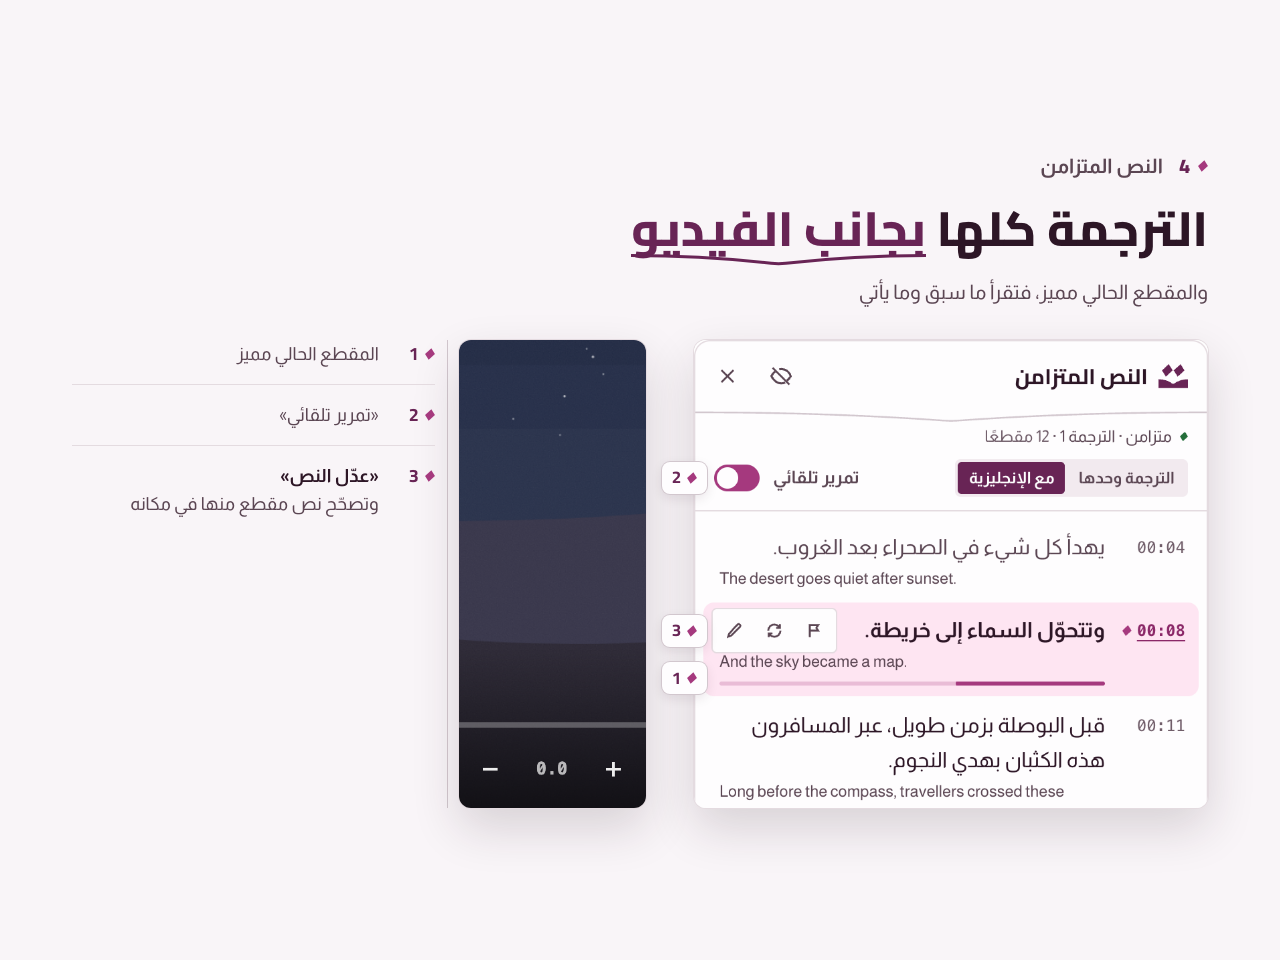
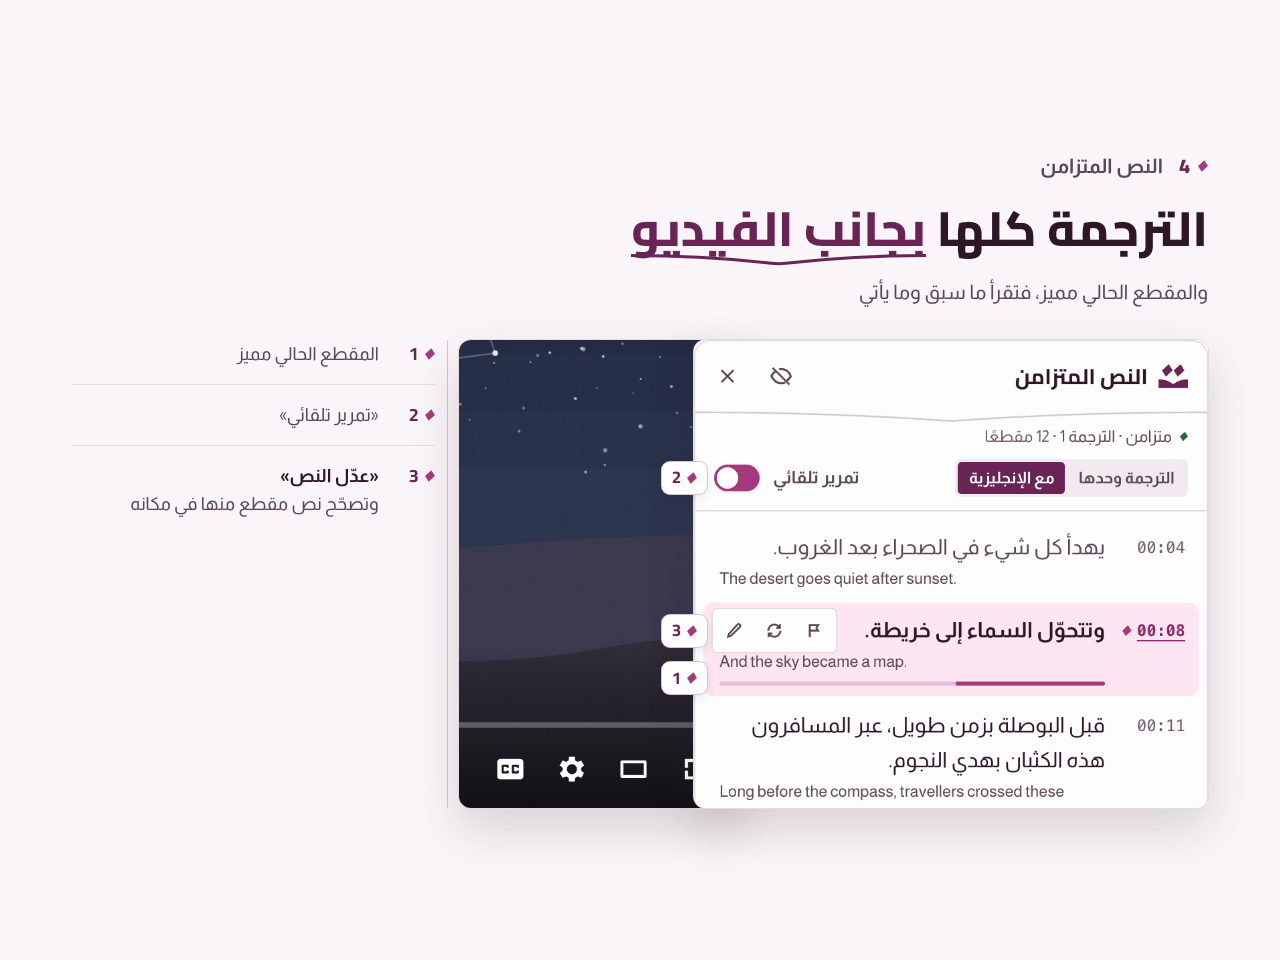
لقطة «النص المتزامن» بتركيب السلسلة المعتمدة نفسه (قرار المنسّق، ت٣-v4-texts-08 وإصلاح dcad6c95): 04-panel بمقاسيها ولغتيها عادت إلى تركيب e8593a55 (المشغّل بالمقاس والموضع نفسيهما واللوحة بجانبه كما كانت)، فالمشغّل المقصوص بجانب اللوحة كان شريطًا ضيقًا لا يُقرأ فيديو. ولم يتغير إلا الخللان المثبتان

Changed region(s): [[0.375, 0.3438, 0.5625, 0.8438]]

diff --git a/docs/development.md b/docs/development.md
@@ -101,7 +101,7 @@ npm run package
 | المقاطع بين `<!-- tj:facts الاسم -->` و`<!-- /tj:facts الاسم -->` في `README.md` و`README.en.md` و`user-guide.md` (التثبيت والمتاجر والأذونات وملخص الخصوصية) | [`facts.json`](facts.json) (ح2) | `node scripts/docs/facts.mjs` (و`--check` في `npm run check`، ومعه مطابقة روابط المتاجر والحدود الدنيا وبريد الدعم في `site/` و`store/` بلا علامات، وبنية النسخ العربية والإنجليزية) |
 | `THIRD_PARTY_NOTICES.txt` | تراخيص الخطوط والأيقونات وأدوات البناء | `npm run notices` |
 | أيقونات الإضافة `src/icons` وأيقونتا المتجر `store/icons` وملفا الرمز `tools/brand/tarjuman-T*.svg` | مسارات الشعار في `src/ui/logo.js`، وأيقونتا 16 و32 المرسومتان بكسلًا في `tools/brand/pixel/` | `node tools/brand/icons.mjs` (و`--check`): ينسخ 16 و32 كما هما، ويولّد ملفي الرمز، ويُبقي البلاطات المرسومة (48 و128 وEdge) ما دامت ضمن حدّ التنعيم من رسمه للهندسة نفسها |
-| صور `.github/assets` ولقطات `store/screenshots/{chromium,firefox}/{ar,en}` و`store/promo` | مجلد العمل المحلي `tarjuman-images/` (غير متتبع) | في `tarjuman-images/_source/3.0.0/`، على نظام واحد (`store-system.ar.md` بجانبها): `capture2.mjs` و`compose3.mjs` للقطات المتجر، و`capture3.mjs` و`compose-readme.mjs` لصور `.github/assets`، و`compose.mjs` للبلاطتين. وإعادة رسم ST4 (اللوحة بجانب الفيديو، وعلامات بلا تراكب) في نسخته `tarjuman-images/_source/3.0.0-st4/`. ثم تُنسخ النتائج إلى مواضعها. ولا رقم إصدار على أي صورة |
+| صور `.github/assets` ولقطات `store/screenshots/{chromium,firefox}/{ar,en}` و`store/promo` | مجلد العمل المحلي `tarjuman-images/` (غير متتبع) | في `tarjuman-images/_source/3.0.0/`، على نظام واحد (`store-system.ar.md` بجانبها): `capture2.mjs` و`compose3.mjs` للقطات المتجر، و`capture3.mjs` و`compose-readme.mjs` لصور `.github/assets`، و`compose.mjs` للبلاطتين. وإعادة رسم ST4 (لوحة النص من الرأس الجديد، وعلامات بلا تراكب) في نسخته `tarjuman-images/_source/3.0.0-st4/`. ثم تُنسخ النتائج إلى مواضعها. ولا رقم إصدار على أي صورة |
 | نصوص صفحات الموقع | [`site`](site/README.md) | مولّد النصوص في مستودع الموقع |
 
 ## الإصدار والمتاجر

diff --git a/store/README.md b/store/README.md
@@ -334,7 +334,7 @@
 - **البلاطتان في `promo/`:** من رسم اللوحة I17 نفسه، بلا نص غير الشعار.
 
 **إعادة الرسم بعد التحقق المستقل (2026-11-14، ST4):** التُقطت الواجهة كلها من جديد من حزمة المتجر لـChromium المبنية من `e8593a55` (بصمة الأرشيف `54d844b1…`) بالطريقة نفسها، وأُعيد رسم عشر لقطات منها بنسخة المولّد `tarjuman-images/_source/3.0.0-st4/`:
-- `04-panel` بمقاسيها ولغتيها: لوحة النص بأيقوناتها الجديدة (أطراف مقطوعة وزوايا حادة)، وهي بجانب الفيديو بفجوة لا فوقه، كما في المنتج (`docs/product-spec.md` §٦.٦). والمشغّل بمقياس اللوحة ومن حال الصفحة نفسها، مقصوصًا بحافة نظيفة قبل أدوات يوتيوب اليمنى، فلا نص فيه دون 16.
+- `04-panel` بمقاسيها ولغتيها: بتركيب السلسلة المعتمدة نفسه، ولقطة لوحة النص من الرأس الجديد بأيقوناتها (أطراف مقطوعة وزوايا حادة). وفي الإنجليزية أُزيحت علامة «2» نحو المتن 10.5 بكسل، فلم تعد على علامة البند «3» في الحاشية.
 - `05-editor` بمقاسيها ولغتيها: علامة المقطع الناقص داخل صفه، وكانت تعبر الخط الشعري إلى الحاشية.
 - `02-workflow` الإنجليزية بمقاسيها: «Four steps, the translation in your hands» و«It doesn’t translate or connect to any model; it prepares the file and instructions for you»، بمعنى العربية ونص الموقع، مختصرَين لسطر واحد.
 - وسائر الصور، ومنها صور `.github/assets`، طابقت لقطاتُ الرأس نفسه ما فيها (لا فرق فوق درجة لون واحدة)، فبقيت كما هي.

diff --git a/README.md b/README.md
@@ -56,7 +56,7 @@
   </tr>
   <tr>
     <td width="50%" valign="top"><img src="store/screenshots/chromium/ar/03-timing.png" alt="مزامنة بجملة تسمعها: قائمة توقيت الترجمة فوق المشغّل، وزرّا − و+ في شريطه"></td>
-    <td width="50%" valign="top"><img src="store/screenshots/chromium/ar/04-panel.png" alt="الترجمة كلها بجانب الفيديو: لوحة النص المتزامن بجانب المشغّل، والمقطع الحالي مميز"></td>
+    <td width="50%" valign="top"><img src="store/screenshots/chromium/ar/04-panel.png" alt="الترجمة كلها بجانب الفيديو: لوحة النص المتزامن والمقطع الحالي مميز"></td>
   </tr>
   <tr>
     <td width="50%" valign="top"><img src="store/screenshots/chromium/ar/05-editor.png" alt="يقارن ملفك بالأصل: صفوف المحرّر وفيها مقطع ناقص"></td>

diff --git a/README.en.md b/README.en.md
@@ -42,7 +42,7 @@ There's no built-in model, no API key, no account, no translation server, and no
   </tr>
   <tr>
     <td width="50%" valign="top"><img src="store/screenshots/chromium/en/03-timing.png" alt="Sync by a sentence you hear: the timing menu over the player, and the − and + buttons on its bar"></td>
-    <td width="50%" valign="top"><img src="store/screenshots/chromium/en/04-panel.png" alt="The whole translation beside the video: the synced transcript panel next to the player, with the current segment highlighted"></td>
+    <td width="50%" valign="top"><img src="store/screenshots/chromium/en/04-panel.png" alt="The whole translation beside the video: the synced transcript panel with the current segment highlighted"></td>
   </tr>
   <tr>
     <td width="50%" valign="top"><img src="store/screenshots/chromium/en/05-editor.png" alt="Compares your file with the original: editor rows with a missing segment"></td>
